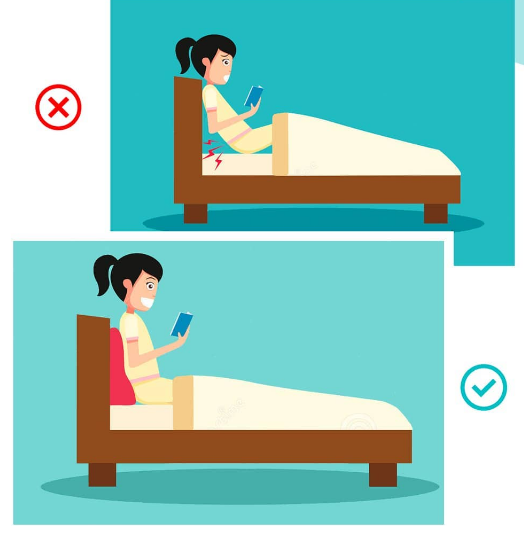
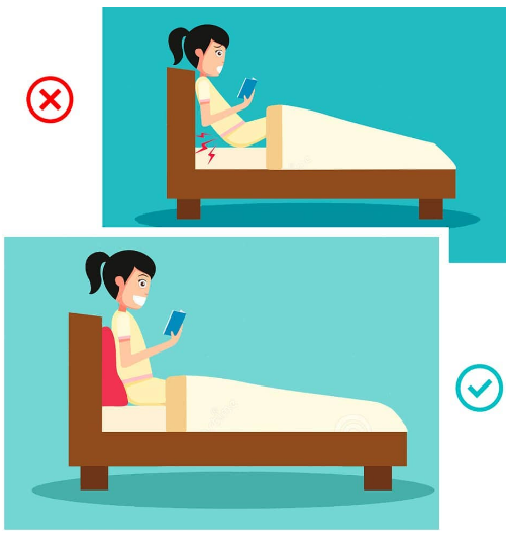
segunda entrega tp

Changed region(s): [[0.0, 0.0, 1.0, 0.9906], [0.1473, 0.8405, 0.3242, 0.9306], [0.0589, 0.9006, 0.1179, 0.9306]]

diff --git a/css/imagehover.min.css b/css/imagehover.min.css
@@ -1,0 +1,10 @@
+@charset "UTF-8";
+/*!
+ * ImageHover.css - http://www.imagehover.io
+ * Version 2.0
+ * Author: Ciarán Walsh
+
+ * Made available under a MIT License:
+ * http://www.opensource.org/licenses/mit-license.php
+
+ */[class*=" imghvr-"],[class^=imghvr-]{position:relative;display:inline-block;margin:0;max-width:100%;background-color:#2266a5;color:#fff;overflow:hidden;-webkit-backface-visibility:hidden;backface-visibility:hidden;-moz-osx-font-smoothing:grayscale;transform:translateZ(0)}[class*=" imghvr-"]>img,[class^=imghvr-]>img{vertical-align:top;max-width:100%}[class*=" imghvr-"] figcaption,[class^=imghvr-] figcaption{background-color:#135796;padding:30px;position:absolute;top:0;bottom:0;left:0;right:0;color:#fff}[class*=" imghvr-"] figcaption h1,[class*=" imghvr-"] figcaption h2,[class*=" imghvr-"] figcaption h3,[class*=" imghvr-"] figcaption h4,[class*=" imghvr-"] figcaption h5,[class*=" imghvr-"] figcaption h6,[class^=imghvr-] figcaption h1,[class^=imghvr-] figcaption h2,[class^=imghvr-] figcaption h3,[class^=imghvr-] figcaption h4,[class^=imghvr-] figcaption h5,[class^=imghvr-] figcaption h6{color:#fff}[class*=" imghvr-"] a,[class^=imghvr-] a{position:absolute;top:0;bottom:0;left:0;right:0;z-index:1}[class*=" imghvr-"],[class*=" imghvr-"] *,[class*=" imghvr-"]:after,[class*=" imghvr-"] :after,[class*=" imghvr-"]:before,[class*=" imghvr-"] :before,[class^=imghvr-],[class^=imghvr-] *,[class^=imghvr-]:after,[class^=imghvr-] :after,[class^=imghvr-]:before,[class^=imghvr-] :before{box-sizing:border-box;transition:all .35s ease}[class*=" imghvr-fade"] figcaption,[class^=imghvr-fade] figcaption{opacity:0}[class*=" imghvr-fade"]:hover figcaption,[class^=imghvr-fade]:hover figcaption{opacity:1}[class*=" imghvr-fade"]:hover>img,[class*=" imghvr-fade"]:hover figcaption,[class^=imghvr-fade]:hover>img,[class^=imghvr-fade]:hover figcaption{transform:translate(0)}.imghvr-fade-in-up figcaption{transform:translateY(15%)}.imghvr-fade-in-down figcaption{transform:translateY(-15%)}.imghvr-fade-in-left figcaption{transform:translate(-15%)}.imghvr-fade-in-right figcaption{transform:translate(15%)}[class*=" imghvr-push-"]:hover figcaption,[class^=imghvr-push-]:hover figcaption{transform:translate(0)}.imghvr-push-up figcaption{transform:translateY(100%)}.imghvr-push-down figcaption,.imghvr-push-up:hover>img{transform:translateY(-100%)}.imghvr-push-down:hover>img{transform:translateY(100%)}.imghvr-push-left figcaption{transform:translateX(100%)}.imghvr-push-left:hover>img,.imghvr-push-right figcaption{transform:translateX(-100%)}.imghvr-push-right:hover>img{transform:translateX(100%)}[class*=" imghvr-slide-"]:hover figcaption,[class^=imghvr-slide-]:hover figcaption{transform:translate(0)}.imghvr-slide-up figcaption{transform:translateY(100%)}.imghvr-slide-down figcaption{transform:translateY(-100%)}.imghvr-slide-left figcaption{transform:translateX(100%)}.imghvr-slide-right figcaption{transform:translateX(-100%)}.imghvr-slide-top-left figcaption{transform:translate(-100%,-100%)}.imghvr-slide-top-right figcaption{transform:translate(100%,-100%)}.imghvr-slide-bottom-left figcaption{transform:translate(-100%,100%)}.imghvr-slide-bottom-right figcaption{transform:translate(100%,100%)}[class*=" imghvr-reveal-"]:before,[class^=imghvr-reveal-]:before{position:absolute;top:0;bottom:0;left:0;right:0;content:"";background-color:#135796}[class*=" imghvr-reveal-"] figcaption,[class^=imghvr-reveal-] figcaption{opacity:0}[class*=" imghvr-reveal-"]:hover:before,[class^=imghvr-reveal-]:hover:before{transform:translate(0)}[class*=" imghvr-reveal-"]:hover figcaption,[class^=imghvr-reveal-]:hover figcaption{opacity:1;transition-delay:.21s}.imghvr-reveal-up:before{transform:translateY(100%)}.imghvr-reveal-down:before{transform:translateY(-100%)}.imghvr-reveal-left:before{transform:translateX(100%)}.imghvr-reveal-right:before{transform:translateX(-100%)}.imghvr-reveal-top-left:before{transform:translate(-100%,-100%)}.imghvr-reveal-top-right:before{transform:translate(100%,-100%)}.imghvr-reveal-bottom-left:before{transform:translate(-100%,100%)}.imghvr-reveal-bottom-right:before{transform:translate(100%,100%)}[class*=" imghvr-hinge-"],[class^=imghvr-hinge-]{perspective:50em}[class*=" imghvr-hinge-"] figcaption,[class^=imghvr-hinge-] figcaption{opacity:0;z-index:1}[class*=" imghvr-hinge-"]:hover img,[class^=imghvr-hinge-]:hover img{opacity:0}[class*=" imghvr-hinge-"]:hover figcaption,[class^=imghvr-hinge-]:hover figcaption{opacity:1;transition-delay:.21s}.imghvr-hinge-up img{transform-origin:50% 0}.imghvr-hinge-up figcaption{transform:rotateX(90deg);transform-origin:50% 100%}.imghvr-hinge-up:hover>img{transform:rotateX(-90deg)}.imghvr-hinge-up:hover figcaption{transform:rotateX(0)}.imghvr-hinge-down img{transform-origin:50% 100%}.imghvr-hinge-down figcaption{transform:rotateX(-90deg);transform-origin:50% -50%}.imghvr-hinge-down:hover>img{transform:rotateX(90deg);opacity:0}.imghvr-hinge-down:hover figcaption{transform:rotateX(0)}.imghvr-hinge-left img{transform-origin:0 50%}.imghvr-hinge-left figcaption{transform:rotateY(-90deg);transform-origin:100% 50%}.imghvr-hinge-left:hover>img{transform:rotateY(90deg)}.imghvr-hinge-left:hover figcaption{transform:rotateY(0)}.imghvr-hinge-right img{transform-origin:100% 50%}.imghvr-hinge-right figcaption{transform:rotateY(90deg);transform-origin:0 50%}.imghvr-hinge-right:hover>img{transform:rotateY(-90deg)}.imghvr-hinge-right:hover figcaption{transform:rotateY(0)}[class*=" imghvr-flip-"],[class^=imghvr-flip-]{perspective:50em}[class*=" imghvr-flip-"] img,[class^=imghvr-flip-] img{-webkit-backface-visibility:hidden;backface-visibility:hidden}[class*=" imghvr-flip-"]:hover>img,[class*=" imghvr-flip-"] figcaption,[class^=imghvr-flip-]:hover>img,[class^=imghvr-flip-] figcaption{opacity:0}[class*=" imghvr-flip-"]:hover figcaption,[class^=imghvr-flip-]:hover figcaption{opacity:1;transition-delay:.14s}.imghvr-flip-horiz figcaption{transform:rotateX(90deg);transform-origin:0 50%}.imghvr-flip-horiz:hover img{transform:rotateX(-180deg)}.imghvr-flip-horiz:hover figcaption{transform:rotateX(0deg)}.imghvr-flip-vert figcaption{transform:rotateY(90deg);transform-origin:50% 0}.imghvr-flip-vert:hover>img{transform:rotateY(-180deg)}.imghvr-flip-vert:hover figcaption{transform:rotateY(0deg)}.imghvr-flip-diag-1 figcaption{transform:rotate3d(1,-1,0,100deg)}.imghvr-flip-diag-1:hover>img{transform:rotate3d(-1,1,0,100deg)}.imghvr-flip-diag-1:hover figcaption{transform:rotate3d(0,0,0,0deg)}.imghvr-flip-diag-2 figcaption{transform:rotate3d(1,1,0,100deg)}.imghvr-flip-diag-2:hover>img{transform:rotate3d(-1,-1,0,100deg)}.imghvr-flip-diag-2:hover figcaption{transform:rotate3d(0,0,0,0deg)}[class*=" imghvr-shutter-out-"]:before,[class^=imghvr-shutter-out-]:before{background:#135796;position:absolute;content:"";transition-delay:.105s}[class*=" imghvr-shutter-out-"] figcaption,[class^=imghvr-shutter-out-] figcaption{opacity:0;transition-delay:0s}[class*=" imghvr-shutter-out-"]:hover:before,[class^=imghvr-shutter-out-]:hover:before{transition-delay:0s}[class*=" imghvr-shutter-out-"]:hover figcaption,[class^=imghvr-shutter-out-]:hover figcaption{opacity:1;transition-delay:.105s}.imghvr-shutter-out-horiz:before{left:50%;right:50%;top:0;bottom:0}.imghvr-shutter-out-horiz:hover:before{left:0;right:0}.imghvr-shutter-out-vert:before{top:50%;bottom:50%;left:0;right:0}.imghvr-shutter-out-vert:hover:before{top:0;bottom:0}.imghvr-shutter-out-diag-1:before{top:50%;bottom:50%;left:-35%;right:-35%;transform:rotate(45deg)}.imghvr-shutter-out-diag-1:hover:before{top:-35%;bottom:-35%}.imghvr-shutter-out-diag-2:before{top:50%;bottom:50%;left:-35%;right:-35%;transform:rotate(-45deg)}.imghvr-shutter-out-diag-2:hover:before{top:-35%;bottom:-35%}[class*=" imghvr-shutter-in-"]:after,[class*=" imghvr-shutter-in-"]:before,[class^=imghvr-shutter-in-]:after,[class^=imghvr-shutter-in-]:before{background:#135796;position:absolute;content:""}[class*=" imghvr-shutter-in-"]:after,[class^=imghvr-shutter-in-]:after{top:0;left:0}[class*=" imghvr-shutter-in-"]:before,[class^=imghvr-shutter-in-]:before{right:0;bottom:0}[class*=" imghvr-shutter-in-"] figcaption,[class^=imghvr-shutter-in-] figcaption{opacity:0;z-index:1}[class*=" imghvr-shutter-in-"]:hover figcaption,[class^=imghvr-shutter-in-]:hover figcaption{opacity:1;transition-delay:.21s}.imghvr-shutter-in-horiz:after,.imghvr-shutter-in-horiz:before{width:0;height:100%}.imghvr-shutter-in-horiz:hover:after,.imghvr-shutter-in-horiz:hover:before{width:50%}.imghvr-shutter-in-vert:after,.imghvr-shutter-in-vert:before{height:0;width:100%}.imghvr-shutter-in-vert:hover:after,.imghvr-shutter-in-vert:hover:before{height:50%}.imghvr-shutter-in-out-horiz:after,.imghvr-shutter-in-out-horiz:before{width:0;height:100%;opacity:.75}.imghvr-shutter-in-out-horiz:hover:after,.imghvr-shutter-in-out-horiz:hover:before{width:100%}.imghvr-shutter-in-out-vert:after,.imghvr-shutter-in-out-vert:before{height:0;width:100%;opacity:.75}.imghvr-shutter-in-out-vert:hover:after,.imghvr-shutter-in-out-vert:hover:before{height:100%}.imghvr-shutter-in-out-diag-1:after,.imghvr-shutter-in-out-diag-1:before{width:200%;height:200%;transition:all .6s ease;opacity:.75}.imghvr-shutter-in-out-diag-1:after{transform:skew(-45deg) translateX(-150%)}.imghvr-shutter-in-out-diag-1:before{transform:skew(-45deg) translateX(150%)}.imghvr-shutter-in-out-diag-1:hover:after{transform:skew(-45deg) translateX(-50%)}.imghvr-shutter-in-out-diag-1:hover:before{transform:skew(-45deg) translateX(50%)}.imghvr-shutter-in-out-diag-2:after,.imghvr-shutter-in-out-diag-2:before{width:200%;height:200%;transition:all .6s ease;opacity:.75}.imghvr-shutter-in-out-diag-2:after{transform:skew(45deg) translateX(-100%)}.imghvr-shutter-in-out-diag-2:before{transform:skew(45deg) translateX(100%)}.imghvr-shutter-in-out-diag-2:hover:after,.imghvr-shutter-in-out-diag-2:hover:before{transform:skew(45deg) translateX(0)}[class*=" imghvr-switch-"]>img,[class*=" imghvr-switch-"] figcaption,[class^=imghvr-switch-]>img,[class^=imghvr-switch-] figcaption{transition-timing-function:cubic-bezier(.645,.045,.355,1)}[class*=" imghvr-switch-"]:hover figcaption,[class^=imghvr-switch-]:hover figcaption{transform:translate(0)}.imghvr-switch-up:hover>img,.imghvr-switch-up figcaption{transform:translateY(100%)}.imghvr-switch-down:hover>img,.imghvr-switch-down figcaption{transform:translateY(-100%)}.imghvr-switch-left:hover>img,.imghvr-switch-left figcaption{transform:translateX(100%)}.imghvr-switch-right:hover>img,.imghvr-switch-right figcaption{transform:translateX(-100%)}[class*=" imghvr-pivot-in"] figcaption,[class^=imghvr-pivot-in] figcaption{background-color:#135796}[class*=" imghvr-pivot-in"]:hover figcaption,[class^=imghvr-pivot-in]:hover figcaption{transform:rotate(0deg)}.imghvr-pivot-in-top-left figcaption{transform:rotate(90deg);transform-origin:0 0}.imghvr-pivot-in-top-right figcaption{transform:rotate(-90deg);transform-origin:100% 0}.imghvr-pivot-in-bottom-left figcaption{transform:rotate(-90deg);transform-origin:0 100%}.imghvr-pivot-in-bottom-right figcaption{transform:rotate(90deg);transform-origin:100% 100%}[class*=" imghvr-pivot-out"]>img,[class^=imghvr-pivot-out]>img{transform:rotate(0deg)}[class*=" imghvr-pivot-out"] figcaption,[class^=imghvr-pivot-out] figcaption{background-color:#135796;z-index:-1}.imghvr-pivot-out-top-left>img{transform-origin:0 0}.imghvr-pivot-out-top-left:hover>img{transform:rotate(90deg)}.imghvr-pivot-out-top-right>img{transform-origin:100% 0}.imghvr-pivot-out-top-right:hover>img{transform:rotate(-90deg)}.imghvr-pivot-out-bottom-left>img{transform-origin:0 100%}.imghvr-pivot-out-bottom-left:hover>img{transform:rotate(-90deg)}.imghvr-pivot-out-bottom-right>img{transform-origin:100% 100%}.imghvr-pivot-out-bottom-right:hover>img{transform:rotate(90deg)}[class*=" imghvr-fold"],[class^=imghvr-fold]{perspective:50em}[class*=" imghvr-fold"] img,[class^=imghvr-fold] img{transform-origin:50% 0}[class*=" imghvr-fold"] figcaption,[class^=imghvr-fold] figcaption{z-index:1;opacity:0}[class*=" imghvr-fold"]:hover>img,[class^=imghvr-fold]:hover>img{opacity:0;transition-delay:0}[class*=" imghvr-fold"]:hover figcaption,[class^=imghvr-fold]:hover figcaption{transform:rotateX(0) translateZ(0) scale(1);opacity:1;transition-delay:.21s}.imghvr-fold-up>img{transform-origin:50% 0}.imghvr-fold-up figcaption{transform:rotateX(-90deg) translate3d(0,-50%,0) scale(.6);transform-origin:50% 100%}.imghvr-fold-up:hover>img{transform:rotateX(90deg) scale(.6) translateY(50%)}.imghvr-fold-down>img{transform-origin:50% 100%}.imghvr-fold-down figcaption{transform:rotateX(90deg) translate3d(0,50%,0) scale(.6);transform-origin:50% 0}.imghvr-fold-down:hover>img{transform:rotateX(-90deg) scale(.6) translateY(-50%)}.imghvr-fold-left>img{transform-origin:0 50%}.imghvr-fold-left figcaption{transform:rotateY(90deg) translate3d(-50%,0,0) scale(.6);transform-origin:100% 50%}.imghvr-fold-left:hover>img{transform:rotateY(-90deg) scale(.6) translateX(50%)}.imghvr-fold-right>img{transform-origin:100% 50%}.imghvr-fold-right figcaption{transform:rotateY(-90deg) translate3d(50%,0,0) scale(.6);transform-origin:0 50%}.imghvr-fold-right:hover>img{transform:rotateY(90deg) scale(.6) translateX(-50%)}.imghvr-zoom-in figcaption{opacity:0;transform:scale(.5)}.imghvr-zoom-in:hover figcaption{transform:scale(1);opacity:1}[class*=" imghvr-zoom-out"] figcaption,[class^=imghvr-zoom-out] figcaption{transform:scale(.5);transform-origin:50% 50%;opacity:0}[class*=" imghvr-zoom-out"].hover figcaption,[class*=" imghvr-zoom-out"]:hover figcaption,[class^=imghvr-zoom-out].hover figcaption,[class^=imghvr-zoom-out]:hover figcaption{transform:scale(1);opacity:1;transition-delay:.35s}.imghvr-zoom-out:hover>img{transform:scale(.5);opacity:0}.imghvr-zoom-out-up.hover>img,.imghvr-zoom-out-up:hover>img{animation:a .4025s linear;animation-iteration-count:1;animation-fill-mode:forwards}@keyframes a{50%{transform:scale(.8) translateY(0);opacity:.5}to{transform:scale(.8) translateY(-150%);opacity:.5}}.imghvr-zoom-out-down.hover>img,.imghvr-zoom-out-down:hover>img{animation:b .4025s linear;animation-iteration-count:1;animation-fill-mode:forwards}@keyframes b{50%{transform:scale(.8) translateY(0);opacity:.5}to{transform:scale(.8) translateY(150%);opacity:.5}}.imghvr-zoom-out-left.hover>img,.imghvr-zoom-out-left:hover>img{animation:c .4025s linear;animation-iteration-count:1;animation-fill-mode:forwards}@keyframes c{50%{transform:scale(.8) translateX(0);opacity:.5}to{transform:scale(.8) translateX(-150%);opacity:.5}}.imghvr-zoom-out-right.hover>img,.imghvr-zoom-out-right:hover>img{animation:d .4025s linear;animation-iteration-count:1;animation-fill-mode:forwards}@keyframes d{50%{transform:scale(.8) translateX(0);opacity:.5}to{transform:scale(.8) translateX(150%);opacity:.5}}.imghvr-zoom-out-flip-horiz{perspective:50em}.imghvr-zoom-out-flip-horiz figcaption{opacity:0;transform:rotateX(90deg) translateY(-100%) scale(.5)}.imghvr-zoom-out-flip-horiz.hover>img,.imghvr-zoom-out-flip-horiz:hover>img{transform:rotateX(-100deg) translateY(50%) scale(.5);opacity:0;transition-delay:0}.imghvr-zoom-out-flip-horiz.hover figcaption,.imghvr-zoom-out-flip-horiz:hover figcaption{transform:rotateX(0) translateY(0) scale(1);opacity:1;transition-delay:.35s}.imghvr-zoom-out-flip-vert{perspective:50em}.imghvr-zoom-out-flip-vert figcaption{opacity:0;transform:rotateY(90deg) translate(50%) scale(.5)}.imghvr-zoom-out-flip-vert.hover>img,.imghvr-zoom-out-flip-vert:hover>img{transform:rotateY(-100deg) translateX(50%) scale(.5);opacity:0;transition-delay:0}.imghvr-zoom-out-flip-vert.hover figcaption,.imghvr-zoom-out-flip-vert:hover figcaption{transform:rotateY(0) translate(0) scale(1);opacity:1;transition-delay:.35s}.imghvr-blur figcaption{opacity:0}.imghvr-blur:hover>img{filter:blur(30px);transform:scale(1.2);opacity:0}.imghvr-blur:hover figcaption{opacity:1;transition-delay:.21s}[class*=" imghvr-fall-away-"],[class^=imghvr-fall-away-]{perspective:50em}[class*=" imghvr-fall-away-"] img,[class^=imghvr-fall-away-] img{transform-origin:50% 50%;transition:all .455s ease-in}[class*=" imghvr-fall-away-"] figcaption,[class^=imghvr-fall-away-] figcaption{opacity:0;background-color:#135796}[class*=" imghvr-fall-away-"]:hover img,[class^=imghvr-fall-away-]:hover img{opacity:0}[class*=" imghvr-fall-away-"]:hover figcaption,[class^=imghvr-fall-away-]:hover figcaption{opacity:1;transition-delay:.455s}.imghvr-fall-away-horiz:hover img{transform:rotateX(-1turn) scale(.2)}.imghvr-fall-away-vert:hover img{transform:rotateY(-1turn) scale(.2)}.imghvr-fall-away-cc:hover img{transform:rotate(1turn) scale(.2)}.imghvr-fall-away-ccc:hover img{transform:rotate(-1turn) scale(.2)}

diff --git a/index.html b/index.html
@@ -11,11 +11,13 @@
     <link rel="stylesheet" href="https://cdn.jsdelivr.net/npm/bootstrap@4.3.1/dist/css/bootstrap.min.css"
         integrity="sha384-ggOyR0iXCbMQv3Xipma34MD+dH/1fQ784/j6cY/iJTQUOhcWr7x9JvoRxT2MZw1T" crossorigin="anonymous">
     <link rel="stylesheet" href="https://cdnjs.cloudflare.com/ajax/libs/animate.css/4.1.1/animate.min.css" />
+    <link rel="stylesheet" href="https://cdnjs.cloudflare.com/ajax/libs/animate.css/4.1.1/animate.min.css" />
 </head>
 
-<body>
-    <div class="p-2 mb-2" style="background-color: rgb(99, 221, 230);">
-        <header>
+
+<body>  
+     <div class="p-2 mb-2" style="background-color: rgb(99, 221, 230);">
+        <header>              
             <div class="container-fluid">
                 <div class="row">
                     <div class="col-md-1">
@@ -55,7 +57,7 @@
                         <div class="col-md-1">
                         </div>
                         <div class="col-md-10">
-                            <h1 class="display-4 text-center">
+                            <h1 class="display-4 text-center animate__animated animate__lightSpeedInLeft">
                                 ¡ Bienvenidos a RPG.Rosario !
                             </h1>
                         </div>
@@ -77,21 +79,21 @@
                                     <div class="carousel-item">
                                         <img class="d-block w-100" alt="Carousel Bootstrap First"
                                             src="./assets/imagenes/rpg_1.png" />
-                                        <div class="carousel-caption">
-                                            <h4>
-                                                First Thumbnail label
+                                        <!-- <div class="carousel-caption">
+                                               <h4>
+                                             First Thumbnail label
                                             </h4>
                                             <p>
                                                 Cras justo odio, dapibus ac facilisis in, egestas eget quam. Donec id
                                                 elit non mi porta gravida at eget metus. Nullam id dolor id nibh
                                                 ultricies vehicula ut id elit.
                                             </p>
-                                        </div>
+                                        </div>-->
                                     </div>
                                     <div class="carousel-item">
                                         <img class="d-block w-100" alt="Carousel Bootstrap Second"
                                             src="./assets/imagenes/rpg_2.jpg" />
-                                        <div class="carousel-caption">
+                                        <!--<div class="carousel-caption">
                                             <h4>
                                                 Second Thumbnail label
                                             </h4>
@@ -100,12 +102,12 @@
                                                 elit non mi porta gravida at eget metus. Nullam id dolor id nibh
                                                 ultricies vehicula ut id elit.
                                             </p>
-                                        </div>
+                                        </div>-->
                                     </div>
                                     <div class="carousel-item active">
                                         <img class="d-block w-100" alt="Carousel Bootstrap Third"
                                             src="./assets/imagenes/rpg_3.jpg" />
-                                        <div class="carousel-caption">
+                                        <!-- <div class="carousel-caption">
                                             <h4>
                                                 Third Thumbnail label
                                             </h4>
@@ -114,7 +116,7 @@
                                                 elit non mi porta gravida at eget metus. Nullam id dolor id nibh
                                                 ultricies vehicula ut id elit.
                                             </p>
-                                        </div>
+                                        </div>-->
                                     </div>
                                 </div> <a class="carousel-control-prev" href="#carousel-259183" data-slide="prev"><span
                                         class="carousel-control-prev-icon"></span> <span

diff --git a/paginas/recomendaciones.html b/paginas/recomendaciones.html
@@ -11,6 +11,7 @@
     <link rel="stylesheet" href="https://cdn.jsdelivr.net/npm/bootstrap@4.3.1/dist/css/bootstrap.min.css"
         integrity="sha384-ggOyR0iXCbMQv3Xipma34MD+dH/1fQ784/j6cY/iJTQUOhcWr7x9JvoRxT2MZw1T" crossorigin="anonymous">
     <link rel="stylesheet" href="https://cdnjs.cloudflare.com/ajax/libs/animate.css/4.1.1/animate.min.css" />
+    <link rel="stylesheet" href="../css/imagehover.min.css">
 </head>
 
 <body>
@@ -139,19 +140,16 @@
                         </div>
                         <div class="col-md-4">
                             <div class="card h-100">
-                                <img src="../assets/imagenes/recomendacion.caja.png" class="card-img-top" alt="caja">
+                                <img src="../assets/imagenes/recomendacion.levantarse.png" class="card-img-top"
+                                    alt="caja">
                                 <div class="card-body">
-                                    <h5 class="card-title">Cómo debemos levantar una caja?</h5>
-                                    <p class="card-text">Nunca debemos exigir la capacidad de nuestro cuerpo para
-                                        levantar
-                                        objetos muy pesados, en ese caso siempre necesitamos conseguir ayuda. El método
-                                        adecuado para levantar objetos del suelo (tanto como cajas, electrodomésticos u
-                                        otros elementos) consiste en utilizar los músculos de las piernas, manteniendo
-                                        la
-                                        columna recta, aunque en una posición inclinada del cuerpo.
-                                        Siempre es recomendable separar nuestros pies para tener suficiente apoyo en el
-                                        suelo, estar cerca del objeto y no doblar la cintura o la espalda sino flexionar
-                                        nuestras rodillas</p>
+                                    <h5 class="card-title">Cómo debemos levantarnos de la cama?</h5>
+                                    <p class="card-text">Para levantarnos de la cama nunca debemos hacerlo directamente
+                                        desde la posición boca arriba. Siempre es aconsejable girar el cuerpo para
+                                        apoyarse de un costado y luego ayudarnos con los brazos para darnos impulso
+                                        hasta sentarnos.
+                                        De esta manera no tensionamos el cuello, evitamos sobrecargar la columna lumbar
+                                        y prevenimos los mareos </p>
                                 </div>
                             </div>
                         </div>

diff --git a/paginas/queesrpg.html b/paginas/queesrpg.html
@@ -11,6 +11,10 @@
     <link rel="stylesheet" href="https://cdn.jsdelivr.net/npm/bootstrap@4.3.1/dist/css/bootstrap.min.css"
         integrity="sha384-ggOyR0iXCbMQv3Xipma34MD+dH/1fQ784/j6cY/iJTQUOhcWr7x9JvoRxT2MZw1T" crossorigin="anonymous">
     <link rel="stylesheet" href="https://cdnjs.cloudflare.com/ajax/libs/animate.css/4.1.1/animate.min.css" />
+    <link rel="stylesheet" href="../css/imagehover.min.css">
+    <link rel="stylesheet" href="https://cdnjs.cloudflare.com/ajax/libs/animate.css/4.1.1/animate.min.css"
+  />
+  <link rel="stylesheet" href="https://cdnjs.cloudflare.com/ajax/libs/animate.css/4.1.1/animate.min.css" />
 </head>
 
 <body>
@@ -54,7 +58,16 @@
             <div class="container-fluid">
                 <div class="row">
                     <div class="col-md-4">
-                        <img src="../assets/imagenes/rpg.philippe.png" width="400" height="400" alt="Imagen_philippe">
+
+
+                        <figure class="imghvr-blur">
+                            <img src="../assets/imagenes/rpg.philippe.png" width="400" height="400" alt="Imagen_philippe">
+                            <figcaption>
+                                Philippe Souchard. Año 2017
+                            </figcaption>
+                          </figure>
+            
+                        
 
 
                     </div>
@@ -93,7 +106,7 @@
                         <div class="col-md-2">
                         </div>
                         <div class="col-md-8">
-                            <h2>
+                            <h2 class="animate__animated animate__fadeIn">
                                 Osteopatía
                             </h2>
                             <p>
@@ -117,7 +130,7 @@
                         <div class="col-md-2">
                         </div>
                         <div class="col-md-8">
-                            <h2>
+                            <h2 class="animate__animated animate__fadeIn">
                                 Mulligan
                             </h2>
                             <p>
@@ -139,7 +152,7 @@
                         <div class="col-md-2">
                         </div>
                         <div class="col-md-8">
-                            <h2>
+                            <h2 class="animate__animated animate__fadeIn">
                                 Punción Seca
                             </h2>
                             <p>
